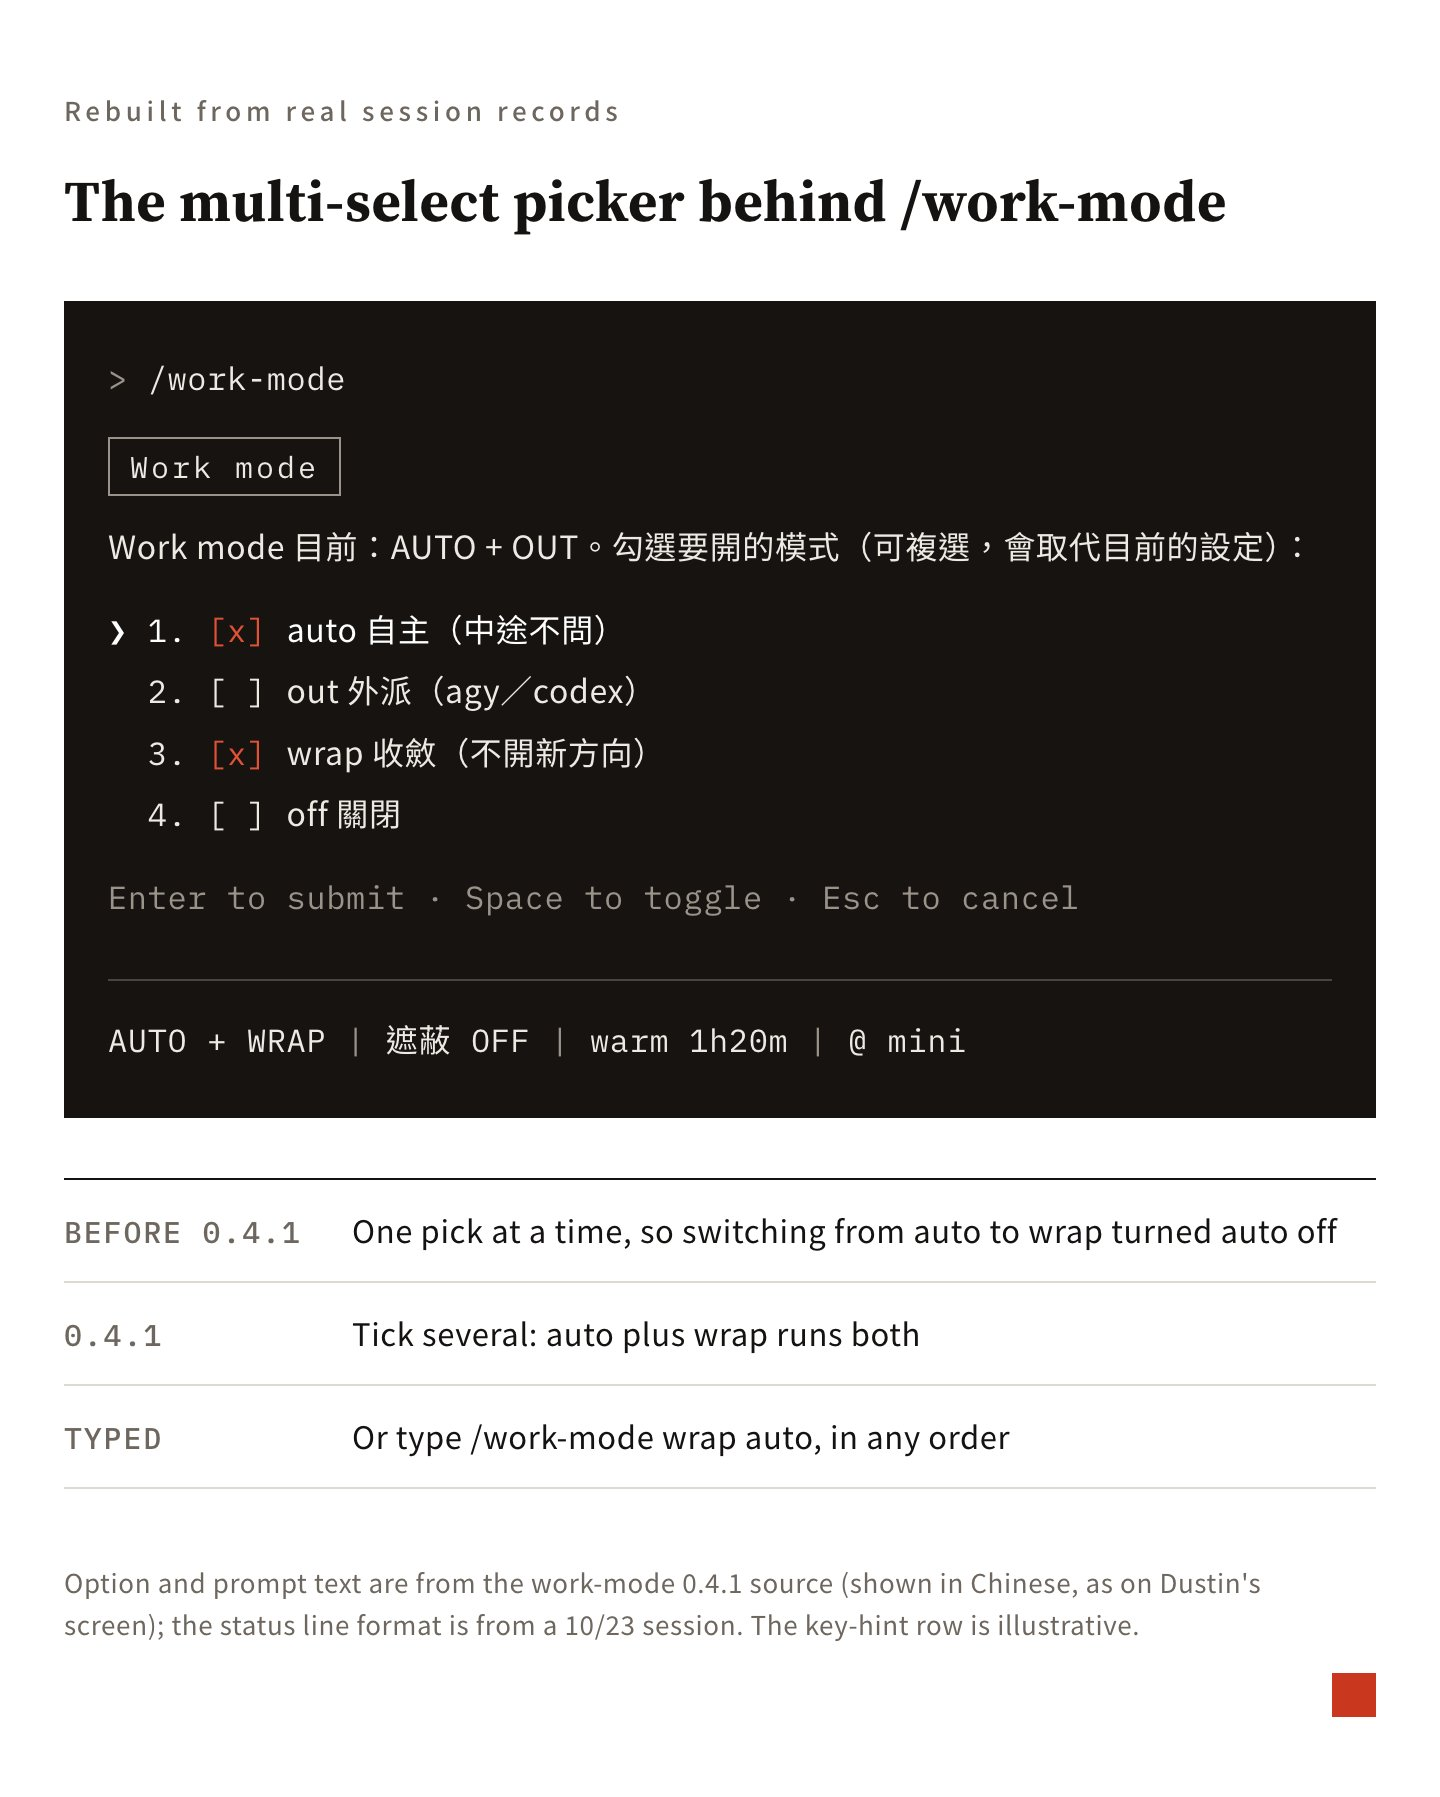
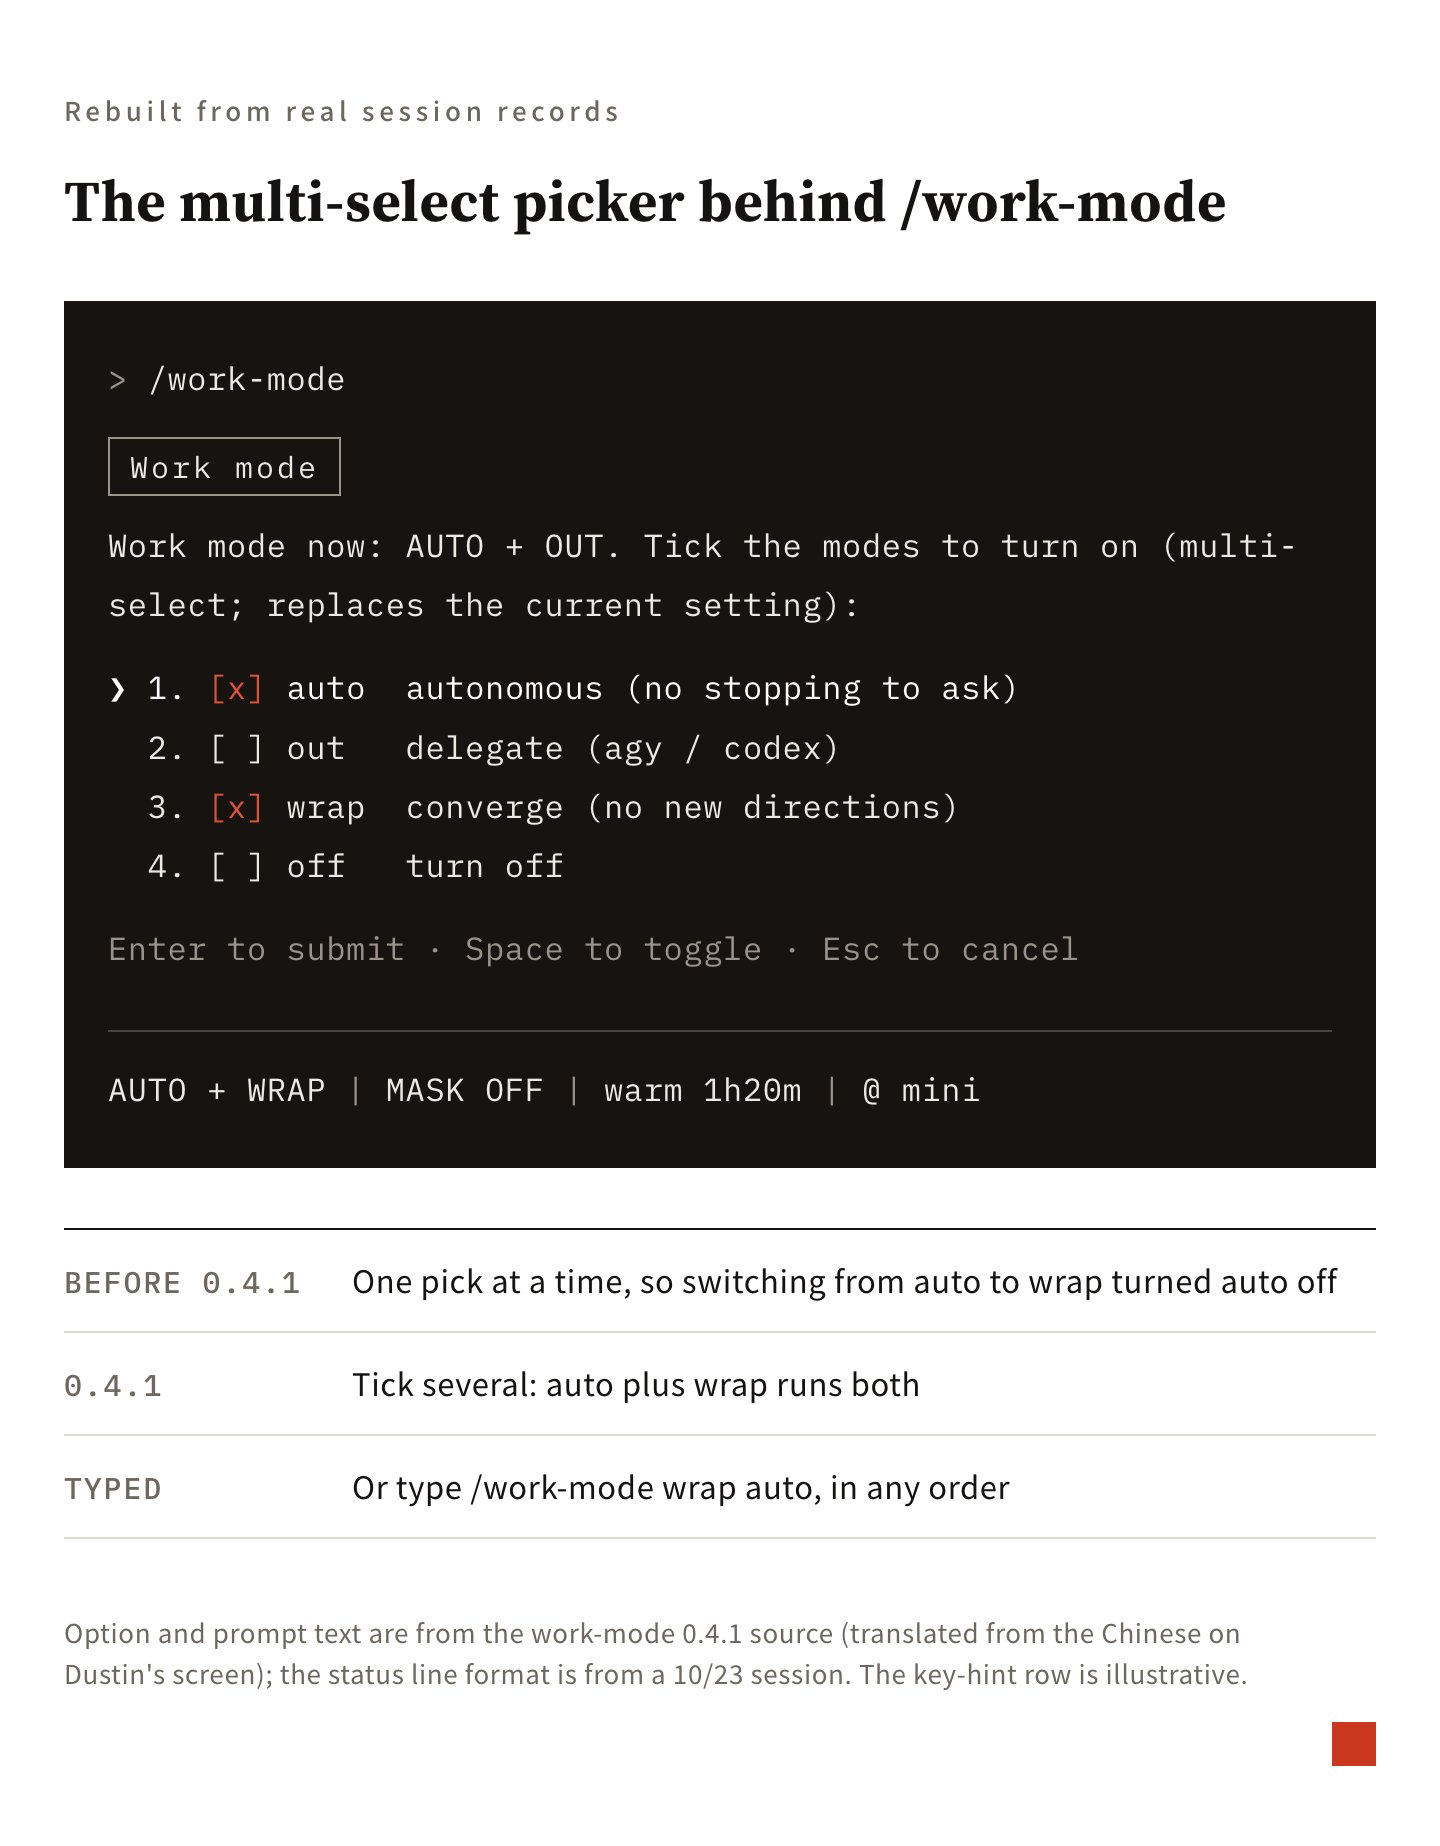
docs(blog): translate Chinese text in English work-mode figures and publish post

diff --git a/src/data/blog/en/work-mode-ai-working-modes.md b/src/data/blog/en/work-mode-ai-working-modes.md
@@ -1,10 +1,10 @@
 ---
 author: Dustin Yuchen Teng
-pubDatetime: 2026-10-24T04:00:00Z
+pubDatetime: 2026-10-25T03:00:00Z
 title: 'Switching Your AI''s Working Mode with One Command: Building work-mode and a Week of Testing'
 slug: en/work-mode-ai-working-modes
 featured: false
-draft: true
+draft: false
 tags:
   - claude-code
   - harness

diff --git a/src/data/blog/zh/work-mode-ai-working-modes.md b/src/data/blog/zh/work-mode-ai-working-modes.md
@@ -1,10 +1,10 @@
 ---
 author: Dustin Yuchen Teng
-pubDatetime: 2026-10-24T04:00:00Z
+pubDatetime: 2026-10-25T03:00:00Z
 title: 用一個指令切換 AI 的工作模式：work-mode 開發與一週實測
 slug: zh/work-mode-ai-working-modes
 featured: false
-draft: true
+draft: false
 tags:
   - claude-code
   - harness
